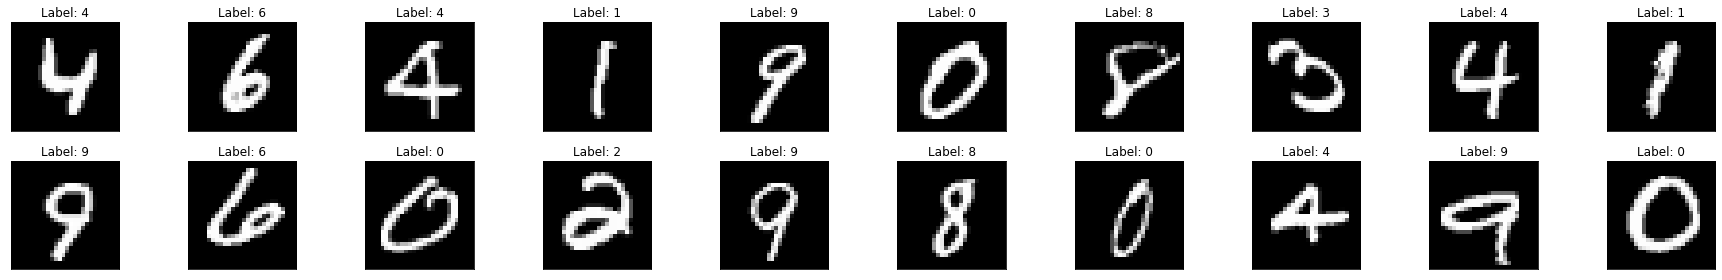
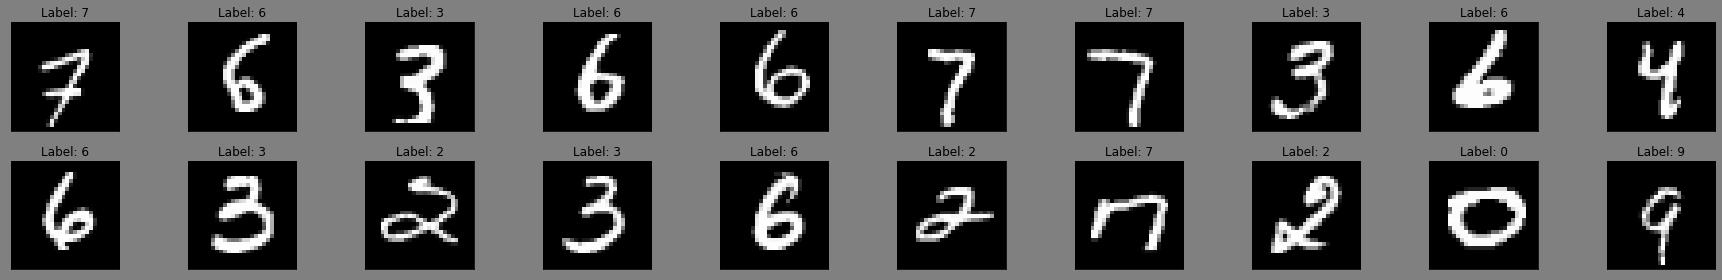
darker background for the splash image

diff --git a/_posts/2019-01-01-mnist.md b/_posts/2019-01-01-mnist.md
@@ -46,9 +46,6 @@ training_loader = torch.utils.data.DataLoader(dataset=training_dataset, batch_si
 validation_loader = torch.utils.data.DataLoader(dataset=validation_dataset, batch_size=batch_size, shuffle=False)
 ```
 
-    
-    
-
 
 ```python
 def im_convert(tensor):
@@ -72,11 +69,10 @@ for idx in range(20):
     ax = fig.add_subplot(2, 10, idx + 1, xticks=[], yticks=[])
     plt.imshow(im_convert(images[idx]))
     ax.set_title(f"Label: {labels[idx].item()}")
+fig.set_facecolor('grey')
 plt.tight_layout()
 ```
 
-    
-    
     Image shape: 1 x 28 x 28
     
     
